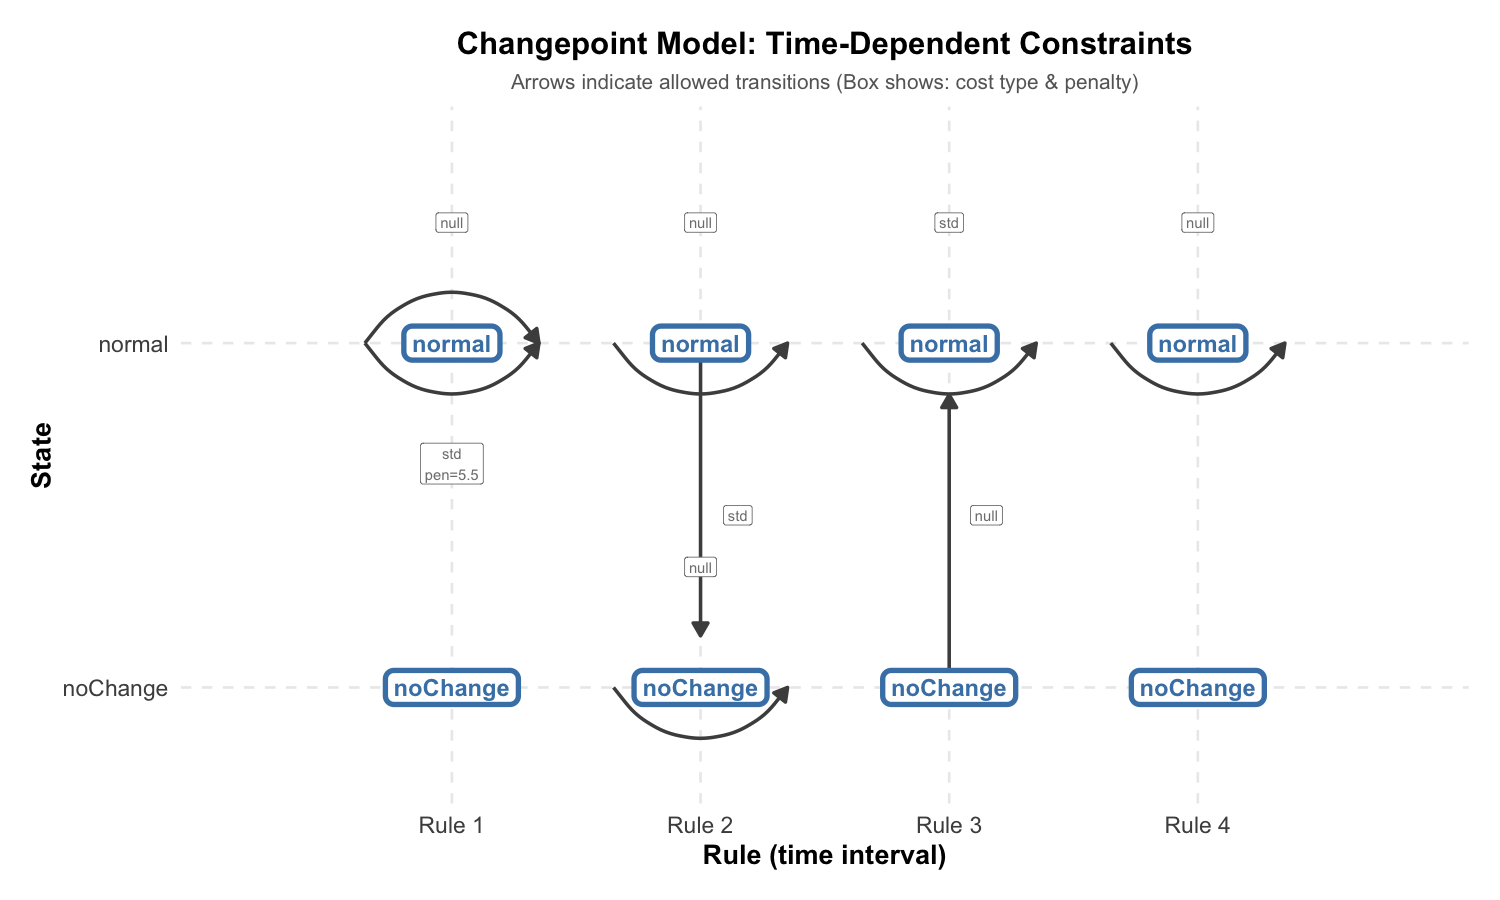
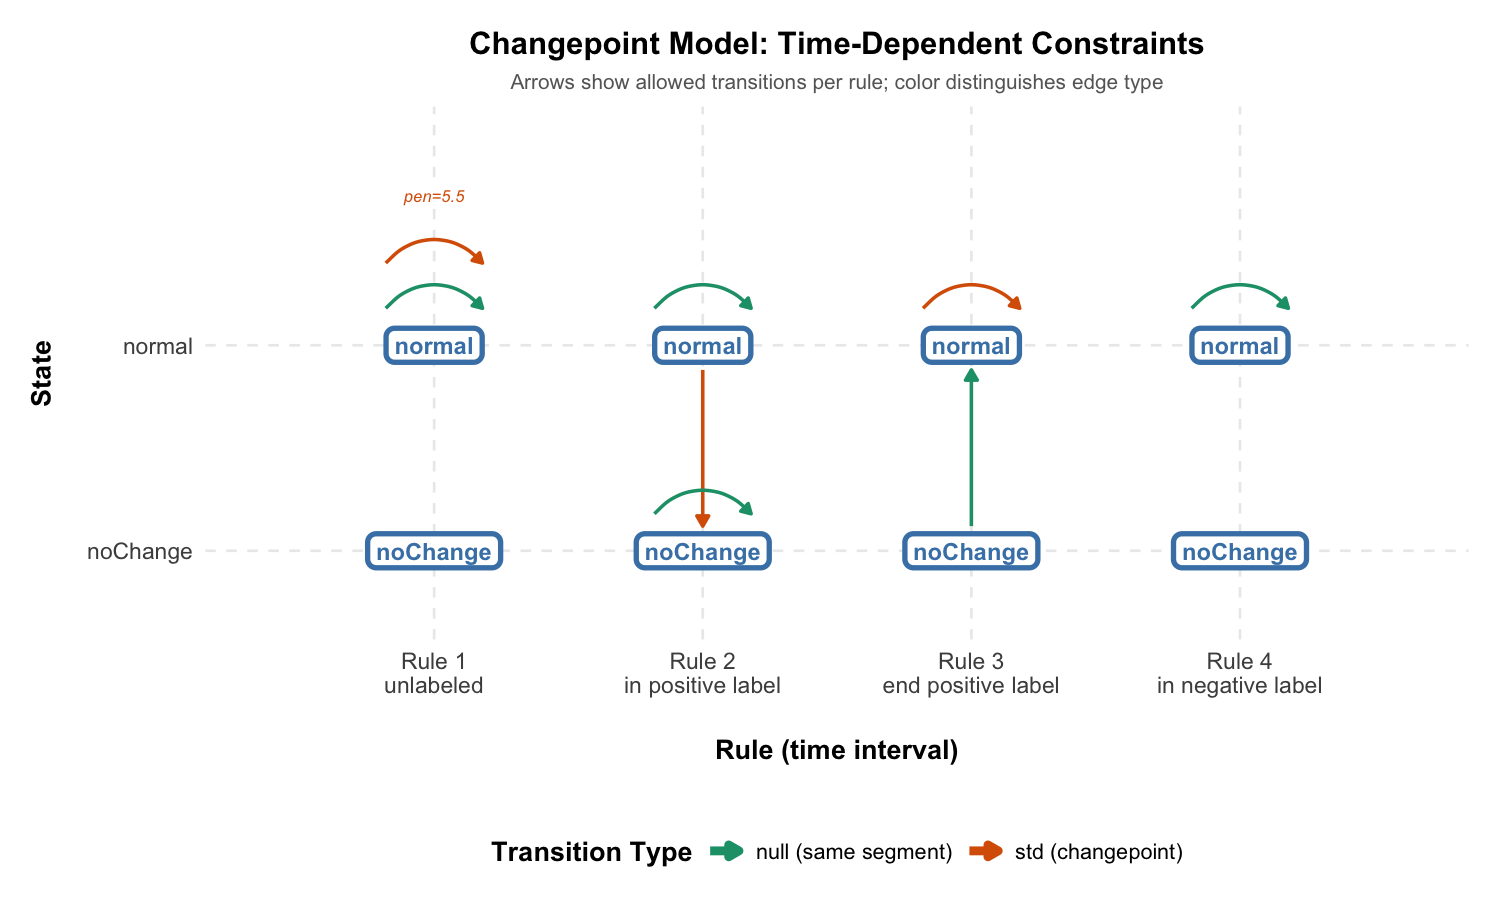
Use real gfpop package and polish plotModel visualization
- Replace mock dataframe with real gfpop::Edge() calls for LOPART graph
- Add 'rule' column manually (proposed API not yet in gfpop)
- Color edges by type: teal for null (same segment), orange for std (changepoint)
- Add semantic rule labels on X-axis (unlabeled, in positive label, etc.)
- Add Transition Type legend at bottom
- Redesign self-loops as clean arcs above nodes
- Show penalty labels only when > 0 with white background
- Improve spacing for axis titles and legend
- Update requirements and README for gfpop dependency

diff --git a/1_easy/README.md b/1_easy/README.md
@@ -5,11 +5,14 @@ Visualize a changepoint model with time-dependent constraints as a state-rule ma
 ## Requirements
 
 - **R** (>= 4.0)
+- **gfpop** (>= 1.1.1) -- install from GitHub: `remotes::install_github("vrunge/gfpop")`
 - **ggplot2** (>= 3.0)
 
-Install the dependency from R:
+Install dependencies from R:
 
 ```r
+install.packages("remotes", repos = "https://cloud.r-project.org")
+remotes::install_github("vrunge/gfpop")
 install.packages("ggplot2", repos = "https://cloud.r-project.org")
 ```
 
@@ -32,7 +35,7 @@ run_main()
 
 ## What It Does
 
-1. **`create_mock_graph()`** -- builds a dataframe mimicking `gfpop::graph()` output with an added `rule` column, encoding the LOPART model (4 rules, 2 states).
+1. **`create_LOPART_graph()`** -- builds a real `gfpop::graph` using `gfpop::Edge()` calls, then manually adds a `rule` column (not yet supported by gfpop) to demonstrate the proposed time-dependent constraint API (4 rules, 2 states).
 2. **`plotModel(graph)`** -- takes the graph dataframe and produces a `ggplot2` visualization:
    - Nodes are arranged in a matrix (rows = states, columns = rules).
    - Directed arrows show allowed transitions.
